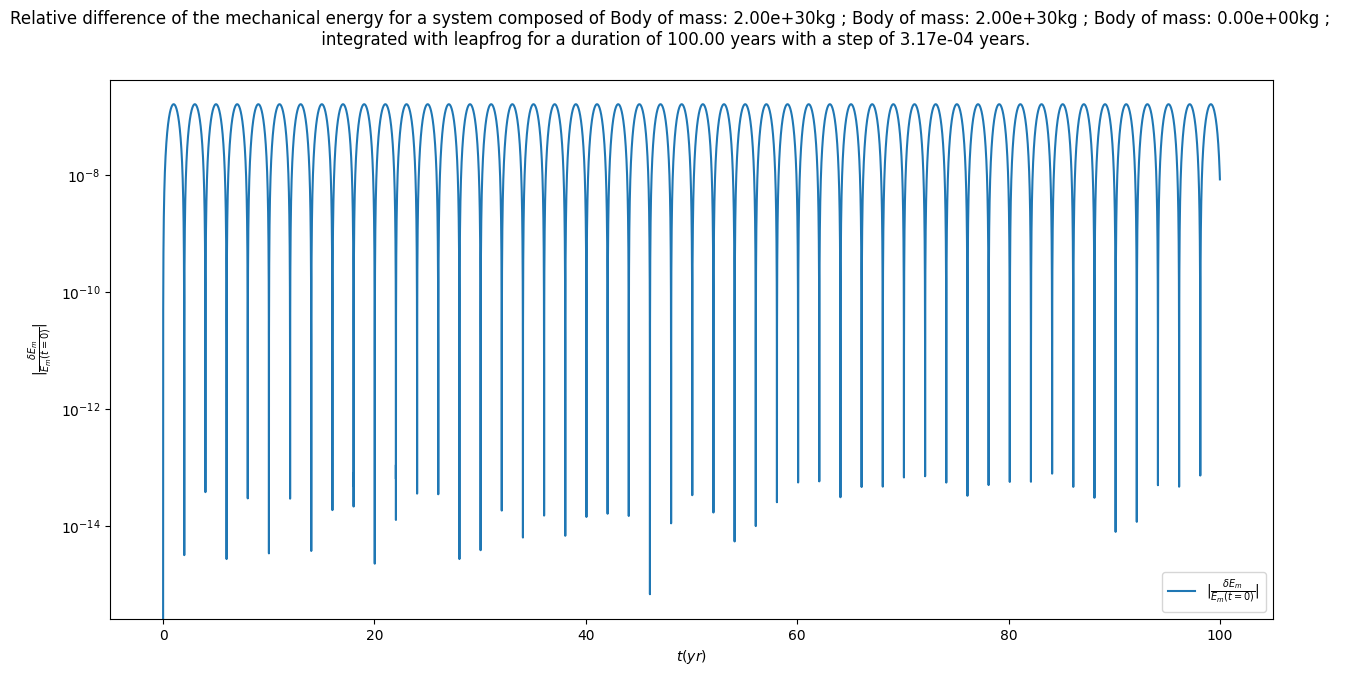
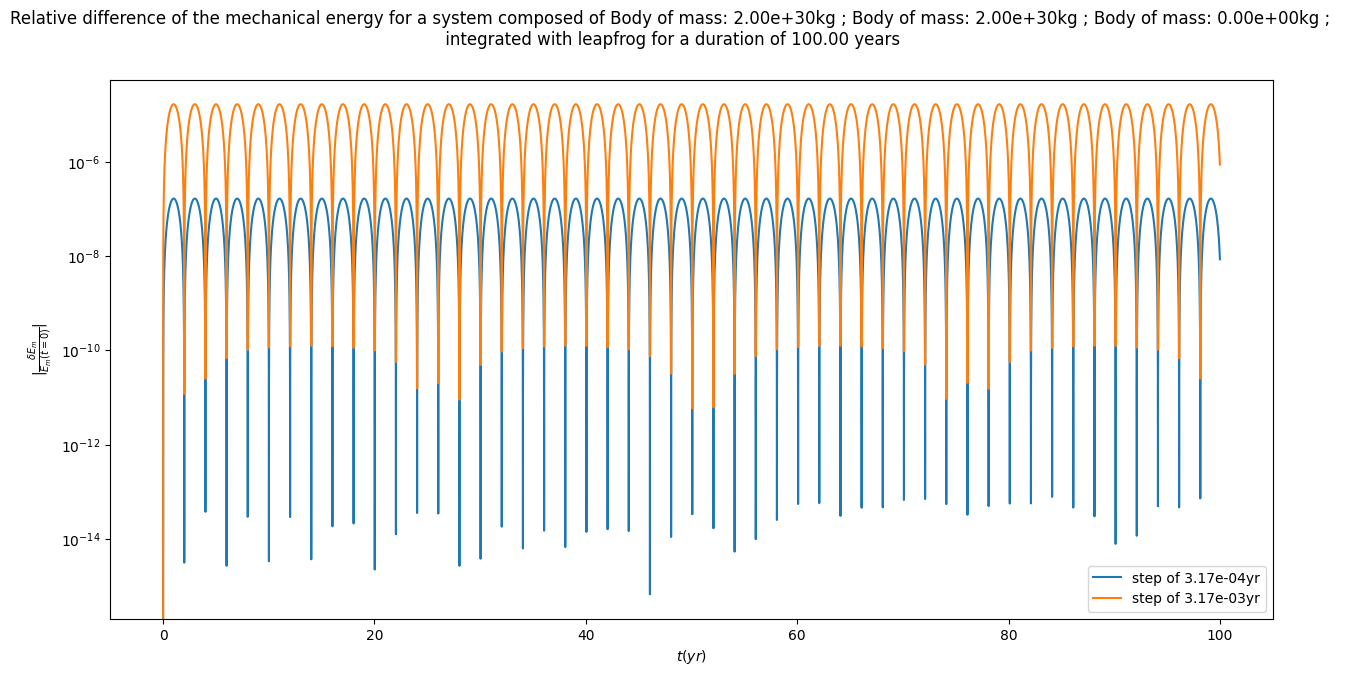
plot for multiple step values at time

diff --git a/lib/plots.py b/lib/plots.py
@@ -114,22 +114,30 @@ def display_parameters(E,L,parameters,savename=""):
     if savename != "":
         savename += "_"
     duration, step, dyn_syst, integrator = parameters
+    if type(step) != list:
+        step = [step]
+    if (len(E) == duration//step[0]) and (len(L) == duration//step[0]):
+        E, L = [E], [L]
     bodies = ""
     for body in dyn_syst.bodylist:
         bodies += str(body)+" ; "
-    title = "Relative difference of the {} "+"for a system composed of {0:s}\n integrated with {1:s} for a duration of {2:.2f} years with a step of {3:.2e} years.".format(bodies, integrator, duration/yr, step/yr)
+    title = "Relative difference of the {0:s} "+"for a system composed of {0:s}\n integrated with {1:s} for a duration of {2:.2f} years ".format(bodies, integrator, duration/yr)
+
     fig1 = plt.figure(figsize=(15,7))
     ax1 = fig1.add_subplot(111)
-    ax1.plot(np.arange(E.shape[0])*step/yr, np.abs((E-E[0])/E[0]), label=r"$\left|\frac{\delta E_m}{E_m(t=0)}\right|$")
+    for i in range(len(E)):
+        ax1.plot(np.arange(E[i].shape[0])*step[i]/yr, np.abs((E[i]-E[i][0])/E[i][0]), label="step of {0:.2e}yr".format(step[i]/yr))
     ax1.set(xlabel=r"$t (yr)$", ylabel=r"$\left|\frac{\delta E_m}{E_m(t=0)}\right|$", yscale='log')
     ax1.legend()
     fig1.suptitle(title.format("mechanical energy"))
     fig1.savefig("plots/{0:s}dEm.png".format(savename),bbox_inches="tight")
+
     fig2 = plt.figure(figsize=(15,7))
     ax2 = fig2.add_subplot(111)
-    dL = ((L-L[0])/L[0])
-    dL[np.isnan(dL)] = 0.
-    ax2.plot(np.arange(L.shape[0])*step/yr, np.abs(np.sum(dL,axis=1)), label=r"$\left|\frac{\delta \vec{L}}{\vec{L}(t=0)}\right|$")
+    for i in range(len(L)):
+        dL = ((L[i]-L[i][0])/L[i][0])
+        dL[np.isnan(dL)] = 0.
+        ax2.plot(np.arange(L[i].shape[0])*step[i]/yr, np.abs(np.sum(dL,axis=1)), label="step of {0:.2e}yr".format(step[i]/yr))
     ax2.set(xlabel=r"$t (yr)$", ylabel=r"$\left|\frac{\delta \vec{L}}{\vec{L}(t=0)}\right|$",yscale='log')
     ax2.legend()
     fig2.suptitle(title.format("kinetic moment"))

diff --git a/main.py b/main.py
@@ -9,7 +9,7 @@ from lib.units import *
 
 def main():
     #initialisation
-    m = np.array([1., 1., 0.])*Ms  # Masses in Solar mass
+    m = np.array([1., 1., 0])*Ms  # Masses in Solar mass
     a = np.array([1., 1., 5.])*au   # Semi-major axis in astronomical units
     e = np.array([0., 0., 1./4.])   # Eccentricity
     psi = np.array([0., 0., 0.])*np.pi/180.    # Inclination of the orbital plane in degrees
@@ -30,11 +30,13 @@ def main():
     dyn_syst = System(bodylist)
     dyn_syst.COMShift()
 
-    duration, step = 100*yr, 1e4
-    #E, L = dyn_syst.leapfrog(duration, step, recover_param=True, display=True)
-    E, L = dyn_syst.hermite(duration,step, recover_param=True, display=True)
-    parameters = [duration, step, dyn_syst, "hermite"]
-    display_parameters(E, L, parameters=parameters, savename="3bodies_hermite")
+    duration, step1, step2 = 100*yr, 1e4, 1e5
+    E1, L1 = dyn_syst.leapfrog(duration, step1, recover_param=True)#, display=True)
+    E2, L2 = dyn_syst.leapfrog(duration, step2, recover_param=True)#, display=True)
+    #E1, L1 = dyn_syst.hermite(duration, step1, recover_param=True)#, display=True)
+    #E2, L2 = dyn_syst.hermite(duration, step2, recover_param=True)#, display=True)
+    parameters = [duration, [step1, step2], dyn_syst, "leapfrog"]
+    display_parameters([E1, E2], [L1, L2], parameters=parameters, savename="3bodies_leapfrog")
 
     return 0
 
